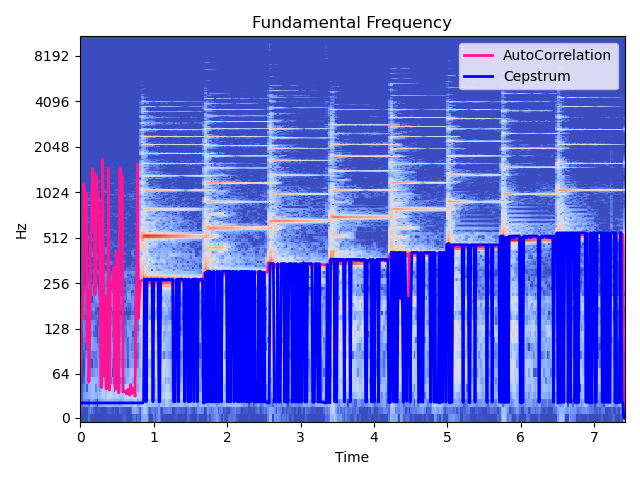
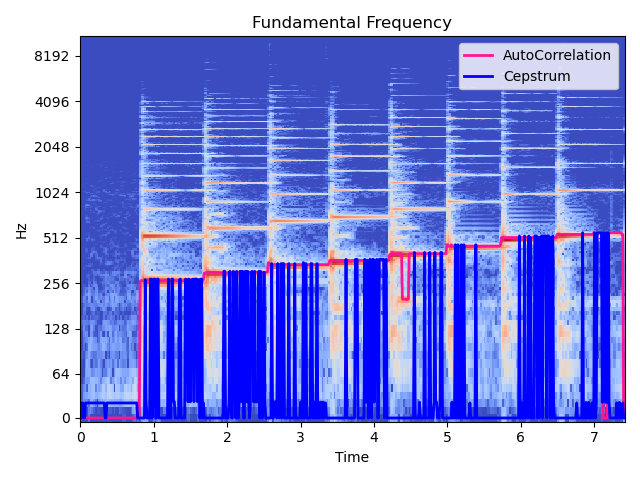
無音空間の処理変更

Changed region(s): [[0.125, 0.3438, 1.0, 0.875]]

diff --git a/ex4/s_tokida/main.py b/ex4/s_tokida/main.py
@@ -44,7 +44,7 @@ def main():
     plt.plot(np.arange(0, time, time / len(f0_cep)), f0_cep, color = 'b', label='Cepstrum', linewidth = 2.0)
     plt.legend()
     plt.tight_layout()
-    plt.savefig('f0_librosa_voice.png')
+    # plt.savefig('f0_librosa.png')
     plt.show()
     plt.close()
 
@@ -59,7 +59,7 @@ def main():
     plt.plot(np.arange(0, time, time / len(f0_cep)), f0_cep, color = 'b', label='Cepstrum', linewidth = 2.0)
     plt.legend()
     plt.tight_layout()
-    plt.savefig('f0_voice.png')
+    # plt.savefig('f0_voice.png')
     plt.show()
     plt.close()
 
@@ -90,7 +90,7 @@ def main():
     plt.plot(fscale[: shift_size//2], env_lpc[:len(env_lpc)//2], color = 'purple', label = 'LPC', linewidth = 2.0)
     plt.legend()
     plt.tight_layout()
-    plt.savefig('spectral_voice.png')
+    # plt.savefig('spectral_voice.png')
     plt.show()
     plt.close()
 
